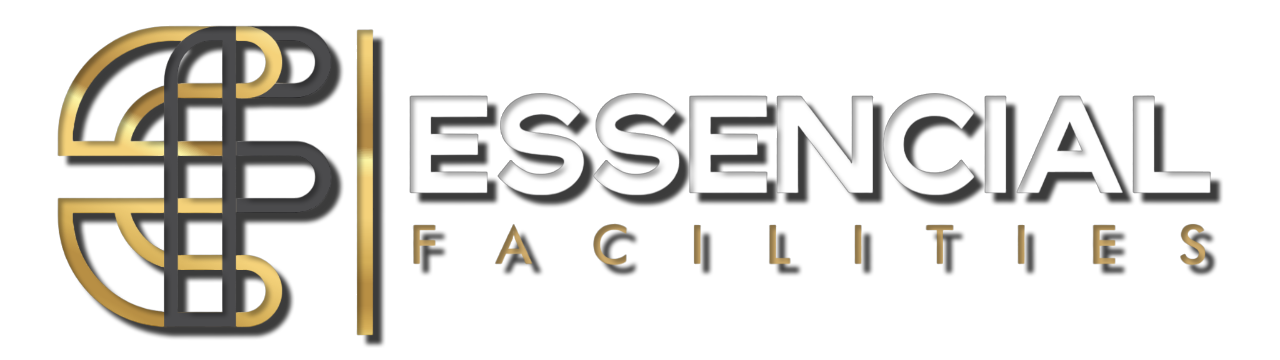
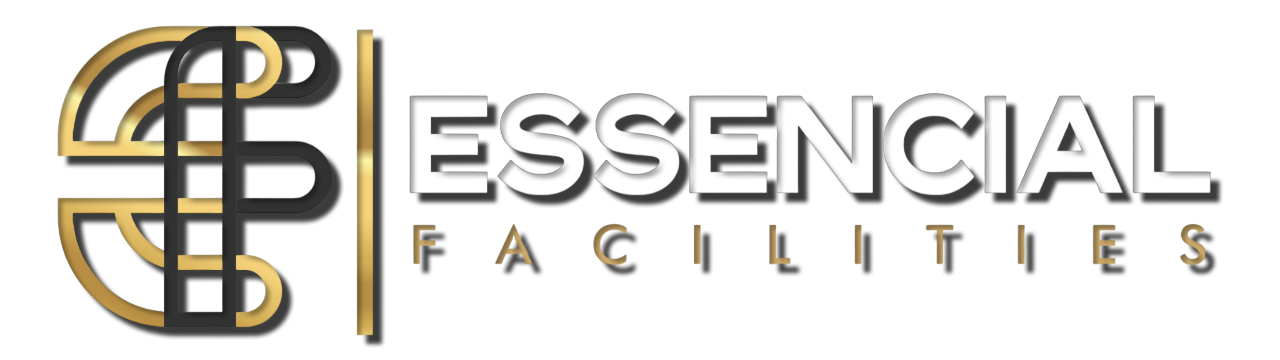
atualização site

Changed region(s): [[0.125, 0.0917, 0.2812, 0.9167]]

diff --git a/contact.html b/contact.html
@@ -3,7 +3,7 @@
 
 <head>
     <meta charset="utf-8">
-    <title>Essencial Facilities - Cleaning Services Website Template</title>
+    <title>Essencial Facilities - Contato</title>
     <meta content="width=device-width, initial-scale=1.0" name="viewport">
     <meta content="Free HTML Templates" name="keywords">
     <meta content="Free HTML Templates" name="description">
@@ -17,8 +17,7 @@
 
     <!-- Font Awesome -->
     <link href="https://cdnjs.cloudflare.com/ajax/libs/font-awesome/5.10.0/css/all.min.css" rel="stylesheet">
-
-    <!-- Libraries Stylesheet -->
+<!-- Libraries Stylesheet -->
     <link href="lib/owlcarousel/assets/owl.carousel.min.css" rel="stylesheet">
     <link href="lib/lightbox/css/lightbox.min.css" rel="stylesheet">
 
@@ -32,20 +31,21 @@
         <div class="row">
             <div class="col-lg-3 bg-secondary d-none d-lg-block">
                 <a href="" class="navbar-brand w-100 h-100 m-0 p-0 d-flex align-items-center justify-content-center">
-                    <h1 class="m-0 display-3 text-primary"><span class="m-0 display-3 text-primary"><img src="img/0001-Photoroom.png" alt="" width="350" height="97"></span> </h1>
+                <h1 class="m-0 display-3 text-primary"><span class="m-0 display-3 text-primary"><img src="img/0001-Photoroom.png" alt="" width="350" height="97"></span> </h1>
                 </a>
             </div>
-            <div class="col-lg-9">
+           <div class="col-lg-9">
                 <div class="row bg-dark d-none d-lg-flex">
                     <div class="col-lg-7 text-left text-white">
                         <div class="h-100 d-inline-flex align-items-center border-right border-primary py-2 px-3">
                             <i class="fa fa-envelope text-primary mr-2"></i>
-                            <small>info@example.com</small>
+                            <small>contato@essencialfacilities.com</small>
                         </div>
                         <div class="h-100 d-inline-flex align-items-center py-2 px-2">
                             <i class="fa fa-phone-alt text-primary mr-2"></i>
-                            <small>+012 345 6789</small>
-                        </div>
+                            <small><a href="https://wa.me/5565992451947" target="_blank">
+  Fale conosco pelo WhatsApp
++55 65 99245-1947</a></small></div>
                     </div>
                     <div class="col-lg-5 text-right">
                         <div class="d-inline-flex align-items-center pr-2">
@@ -76,20 +76,14 @@
                     </button>
                     <div class="collapse navbar-collapse justify-content-between" id="navbarCollapse">
                         <div class="navbar-nav mr-auto py-0">
-                            <a href="index.html" class="nav-item nav-link">Home</a>
-                            <a href="about.html" class="nav-item nav-link">About</a>
-                            <a href="service.html" class="nav-item nav-link">Service</a>
-                            <a href="project.html" class="nav-item nav-link">Project</a>
-                            <div class="nav-item dropdown">
-                                <a href="#" class="nav-link dropdown-toggle" data-toggle="dropdown">Pages</a>
-                                <div class="dropdown-menu rounded-0 m-0">
-                                    <a href="blog.html" class="dropdown-item">Latest Blog</a>
-                                    <a href="single.html" class="dropdown-item">Blog Detail</a>
-                                </div>
-                            </div>
-                            <a href="contact.html" class="nav-item nav-link active">Contact</a>
+                            <a href="index.html" class="nav-item nav-link active">Inicio</a>
+                            <a href="about.html" class="nav-item nav-link">Sobre Nós</a>
+                            <a href="service.html" class="nav-item nav-link">Serviço</a>
+                            <a href="project.html" class="nav-item nav-link">Projeto</a>
+                            <a href="contact.html" class="nav-item nav-link">Contato</a>
+                            </div> 
                         </div>
-                        <a href="" class="btn btn-primary mr-3 d-none d-lg-block">Get A Quote</a>
+                        <a href="" class="btn btn-primary mr-3 d-none d-lg-block">Obter uma Cotação</a>
                     </div>
                 </nav>
             </div>
@@ -103,7 +97,7 @@
         <div class="container py-5">
             <div class="row align-items-center py-4">
                 <div class="col-md-6 text-center text-md-left">
-                    <h1 class="display-4 mb-4 mb-md-0 text-secondary text-uppercase">Contact</h1>
+                    <h1 class="display-4 mb-4 mb-md-0 text-secondary text-uppercase">Contato</h1>
                 </div>
                 <div class="col-md-6 text-center text-md-right">
                     <div class="d-inline-flex align-items-center">
@@ -177,7 +171,8 @@
         <div class="row pt-5">
             <div class="col-lg-3 col-md-6 mb-5">
                 <a href="index.html" class="navbar-brand">
-                    <h1 class="m-0 mt-n3 display-4 text-primary">Essencial Facilities</h1>
+                    <span class="m-0 mt-n3 display-4 text-primary"><img src="img/logo dourada.fw.png" alt="" width="285" height="79"></span>
+                    <h1 class="m-0 mt-n3 display-4 text-primary">&nbsp;</h1>
                 </a>
                 <p>Volup amet magna clita tempor. Tempor sea eos vero ipsum. Lorem lorem sit sed elitr sed kasd et</p>
                 <h5 class="font-weight-semi-bold text-white mb-2">Opening Hours:</h5>

diff --git a/about.html b/about.html
@@ -3,7 +3,7 @@
 
 <head>
     <meta charset="utf-8">
-    <title>Essencial Facilities - Cleaning Services Website Template</title>
+    <title>Essencial Facilities - Conheça um pouco mais sobre nós</title>
     <meta content="width=device-width, initial-scale=1.0" name="viewport">
     <meta content="Free HTML Templates" name="keywords">
     <meta content="Free HTML Templates" name="description">
@@ -41,12 +41,13 @@
                     <div class="col-lg-7 text-left text-white">
                         <div class="h-100 d-inline-flex align-items-center border-right border-primary py-2 px-3">
                             <i class="fa fa-envelope text-primary mr-2"></i>
-                            <small>info@example.com</small>
+                            <small>contato@essencialfacilities.com</small>
                         </div>
                         <div class="h-100 d-inline-flex align-items-center py-2 px-2">
                             <i class="fa fa-phone-alt text-primary mr-2"></i>
-                            <small>+012 345 6789</small>
-                        </div>
+                            <small><a href="https://wa.me/5565992451947" target="_blank">
+  Fale conosco pelo WhatsApp
++55 65 99245-1947</a></small></div>
                     </div>
                     <div class="col-lg-5 text-right">
                         <div class="d-inline-flex align-items-center pr-2">
@@ -77,20 +78,14 @@
                     </button>
                     <div class="collapse navbar-collapse justify-content-between" id="navbarCollapse">
                         <div class="navbar-nav mr-auto py-0">
-                            <a href="index.html" class="nav-item nav-link">Home</a>
-                            <a href="about.html" class="nav-item nav-link active">About</a>
-                            <a href="service.html" class="nav-item nav-link">Service</a>
-                            <a href="project.html" class="nav-item nav-link">Project</a>
-                            <div class="nav-item dropdown">
-                                <a href="#" class="nav-link dropdown-toggle" data-toggle="dropdown">Pages</a>
-                                <div class="dropdown-menu rounded-0 m-0">
-                                    <a href="blog.html" class="dropdown-item">Latest Blog</a>
-                                    <a href="single.html" class="dropdown-item">Blog Detail</a>
-                                </div>
+                            <a href="index.html" class="nav-item nav-link active">Inicio</a>
+                            <a href="about.html" class="nav-item nav-link">Sobre Nós</a>
+                            <a href="service.html" class="nav-item nav-link">Serviço</a>
+                            <a href="project.html" class="nav-item nav-link">Projeto</a>
+                            <a href="contact.html" class="nav-item nav-link">Contato</a>
                             </div>
-                            <a href="contact.html" class="nav-item nav-link">Contact</a>
                         </div>
-                        <a href="" class="btn btn-primary mr-3 d-none d-lg-block">Get A Quote</a>
+                        <a href="" class="btn btn-primary mr-3 d-none d-lg-block">Obter uma Cotação</a>
                     </div>
                 </nav>
             </div>
@@ -104,7 +99,7 @@
         <div class="container py-5">
             <div class="row align-items-center py-4">
                 <div class="col-md-6 text-center text-md-left">
-                    <h1 class="display-4 mb-4 mb-md-0 text-secondary text-uppercase">About</h1>
+                    <h1 class="display-4 mb-4 mb-md-0 text-secondary text-uppercase">Sobre</h1>
                 </div>
                 <div class="col-md-6 text-center text-md-right">
                     <div class="d-inline-flex align-items-center">
@@ -293,11 +288,8 @@
     <!-- Footer Start -->
     <div class="container-fluid bg-dark text-white mt-5 py-5 px-sm-3 px-md-5">
         <div class="row pt-5">
-            <div class="col-lg-3 col-md-6 mb-5">
-                <a href="index.html" class="navbar-brand">
-                    <h1 class="m-0 mt-n3 display-4 text-primary">Essencial Facilities</h1>
-                </a>
-                <p>Volup amet magna clita tempor. Tempor sea eos vero ipsum. Lorem lorem sit sed elitr sed kasd et</p>
+            <div class="col-lg-3 col-md-6 mb-5"><a href="index.html" class="navbar-brand"><span class="m-0 mt-n3 display-4 text-primary"><img src="img/logo dourada.fw.png" alt="" width="285" height="79"></span></a>
+              <p>Volup amet magna clita tempor. Tempor sea eos vero ipsum. Lorem lorem sit sed elitr sed kasd et</p>
                 <h5 class="font-weight-semi-bold text-white mb-2">Opening Hours:</h5>
                 <p class="mb-1">Mon – Sat, 8AM – 5PM</p>
                 <p class="mb-0">Sunday: Closed</p>
@@ -306,7 +298,7 @@
                 <h4 class="font-weight-semi-bold text-primary mb-4">Get In Touch</h4>
                 <p><i class="fa fa-map-marker-alt text-primary mr-2"></i>123 Street, New York, USA</p>
                 <p><i class="fa fa-phone-alt text-primary mr-2"></i>+012 345 67890</p>
-                <p><i class="fa fa-envelope text-primary mr-2"></i>info@example.com</p>
+                <p><i class="fa fa-envelope text-primary mr-2"></i>contato@essencialfacilities.com.br</p>
                 <div class="d-flex justify-content-start mt-4">
                     <a class="btn btn-light btn-social mr-2" href="#"><i class="fab fa-twitter"></i></a>
                     <a class="btn btn-light btn-social mr-2" href="#"><i class="fab fa-facebook-f"></i></a>

diff --git a/service.html b/service.html
@@ -3,7 +3,7 @@
 
 <head>
     <meta charset="utf-8">
-    <title>Essencial Facilities - Cleaning Services Website Template</title>
+    <title>Essencial Facilities - Serviços </title>
     <meta content="width=device-width, initial-scale=1.0" name="viewport">
     <meta content="Free HTML Templates" name="keywords">
     <meta content="Free HTML Templates" name="description">
@@ -39,12 +39,13 @@
                     <div class="col-lg-7 text-left text-white">
                         <div class="h-100 d-inline-flex align-items-center border-right border-primary py-2 px-3">
                             <i class="fa fa-envelope text-primary mr-2"></i>
-                            <small>info@example.com</small>
+                            <small>contato@essencialfacilities.com</small>
                         </div>
                         <div class="h-100 d-inline-flex align-items-center py-2 px-2">
                             <i class="fa fa-phone-alt text-primary mr-2"></i>
-                            <small>+012 345 6789</small>
-                        </div>
+                            <small><a href="https://wa.me/5565992451947" target="_blank">
+  Fale conosco pelo WhatsApp
++55 65 99245-1947</a></small></div>
                     </div>
                     <div class="col-lg-5 text-right">
                         <div class="d-inline-flex align-items-center pr-2">
@@ -75,20 +76,14 @@
                     </button>
                     <div class="collapse navbar-collapse justify-content-between" id="navbarCollapse">
                         <div class="navbar-nav mr-auto py-0">
-                            <a href="index.html" class="nav-item nav-link">Home</a>
-                            <a href="about.html" class="nav-item nav-link">About</a>
-                            <a href="service.html" class="nav-item nav-link active">Service</a>
-                            <a href="project.html" class="nav-item nav-link">Project</a>
-                            <div class="nav-item dropdown">
-                                <a href="#" class="nav-link dropdown-toggle" data-toggle="dropdown">Pages</a>
-                                <div class="dropdown-menu rounded-0 m-0">
-                                    <a href="blog.html" class="dropdown-item">Latest Blog</a>
-                                    <a href="single.html" class="dropdown-item">Blog Detail</a>
-                                </div>
+                            <a href="index.html" class="nav-item nav-link active">Inicio</a>
+                            <a href="about.html" class="nav-item nav-link">Sobre Nós</a>
+                            <a href="service.html" class="nav-item nav-link">Serviço</a>
+                            <a href="project.html" class="nav-item nav-link">Projeto</a>
+                            <a href="contact.html" class="nav-item nav-link">Contato</a>
                             </div>
-                            <a href="contact.html" class="nav-item nav-link">Contact</a>
                         </div>
-                        <a href="" class="btn btn-primary mr-3 d-none d-lg-block">Get A Quote</a>
+                        <a href="" class="btn btn-primary mr-3 d-none d-lg-block">Obter uma Cotação</a>
                     </div>
                 </nav>
             </div>
@@ -102,7 +97,7 @@
         <div class="container py-5">
             <div class="row align-items-center py-4">
                 <div class="col-md-6 text-center text-md-left">
-                    <h1 class="display-4 mb-4 mb-md-0 text-secondary text-uppercase">Service</h1>
+                    <h1 class="display-4 mb-4 mb-md-0 text-secondary text-uppercase">Serviços</h1>
                 </div>
                 <div class="col-md-6 text-center text-md-right">
                     <div class="d-inline-flex align-items-center">
@@ -247,11 +242,8 @@
     <!-- Footer Start -->
     <div class="container-fluid bg-dark text-white mt-5 py-5 px-sm-3 px-md-5">
         <div class="row pt-5">
-            <div class="col-lg-3 col-md-6 mb-5">
-                <a href="index.html" class="navbar-brand">
-                    <h1 class="m-0 mt-n3 display-4 text-primary">Essencial Facilities</h1>
-                </a>
-                <p>Volup amet magna clita tempor. Tempor sea eos vero ipsum. Lorem lorem sit sed elitr sed kasd et</p>
+            <div class="col-lg-3 col-md-6 mb-5"><a href="index.html" class="navbar-brand"><span class="m-0 mt-n3 display-4 text-primary"><img src="img/logo dourada.fw.png" alt="" width="285" height="79"></span></a>
+              <p>Volup amet magna clita tempor. Tempor sea eos vero ipsum. Lorem lorem sit sed elitr sed kasd et</p>
                 <h5 class="font-weight-semi-bold text-white mb-2">Opening Hours:</h5>
                 <p class="mb-1">Mon – Sat, 8AM – 5PM</p>
                 <p class="mb-0">Sunday: Closed</p>

diff --git a/index.html b/index.html
@@ -3,13 +3,14 @@
 
 <head>
     <meta charset="utf-8">
-    <title>Essencial Facilities | Bem-vindo</title>
+    <title>Essencial Facilities - Bem-vindo</title>
     <meta content="width=device-width, initial-scale=1.0" name="viewport">
     <meta content="Free HTML Templates" name="keywords">
     <meta content="Free HTML Templates" name="description">
 
     <!-- Favicon -->
-    <link href="img/favicon.ico" rel="icon">
+    <link rel="apple-touch-icon" href="ICON.png">
+
 
     <!-- Google Web Fonts -->
     <link rel="preconnect" href="https://fonts.gstatic.com">
@@ -32,7 +33,7 @@
         <div class="row">
             <div class="col-lg-3 bg-secondary d-none d-lg-block">
                 <a href="" class="navbar-brand w-100 h-100 m-0 p-0 d-flex align-items-center justify-content-center">
-                    <h1 class="m-0 display-3 text-primary"><img src="img/0001-Photoroom.png" width="299" height="83"><br>
+                    <h1 class="m-0 display-3 text-primary"><img src="img/0001-Photoroom.png" width="350" height="97"><br>
                 </h1>
                 </a>
             </div>
@@ -78,20 +79,14 @@
                     </button>
                     <div class="collapse navbar-collapse justify-content-between" id="navbarCollapse">
                         <div class="navbar-nav mr-auto py-0">
-                            <a href="index.html" class="nav-item nav-link active">Home</a>
-                            <a href="about.html" class="nav-item nav-link">About</a>
-                            <a href="service.html" class="nav-item nav-link">Service</a>
-                            <a href="project.html" class="nav-item nav-link">Project</a>
-                            <div class="nav-item dropdown">
-                                <a href="#" class="nav-link dropdown-toggle" data-toggle="dropdown">Pages</a>
-                                <div class="dropdown-menu rounded-0 m-0">
-                                    <a href="blog.html" class="dropdown-item">Latest Blog</a>
-                                    <a href="single.html" class="dropdown-item">Blog Detail</a>
-                                </div>
-                            </div>
-                            <a href="contact.html" class="nav-item nav-link">Contact</a>
+                            <a href="index.html" class="nav-item nav-link active">Inicio</a>
+                            <a href="about.html" class="nav-item nav-link">Sobre Nós</a>
+                            <a href="service.html" class="nav-item nav-link">Serviço</a>
+                            <a href="project.html" class="nav-item nav-link">Projeto</a>
+                            <a href="contact.html" class="nav-item nav-link">Contato</a>
+                            </div>  
                         </div>
-                        <a href="" class="btn btn-primary mr-3 d-none d-lg-block">Get A Quote</a>
+                        <a href="" class="btn btn-primary mr-3 d-none d-lg-block">Obter uma Cotação</a>
                     </div>
                 </nav>
             </div>
@@ -635,8 +630,8 @@
     <!-- Footer Start -->
     <div class="container-fluid bg-dark text-white mt-5 py-5 px-sm-3 px-md-5">
         <div class="row pt-5">
-            <div class="col-lg-3 col-md-6 mb-5"><a href="index.html" class="navbar-brand"><span class="m-0 mt-n3 display-4 text-primary"><img src="img/logo dourada.fw.png" width="225" height="65"></span></a>
-                <p>Volup amet magna clita tempor. Tempor sea eos vero ipsum. Lorem lorem sit sed elitr sed kasd et</p>
+            <div class="col-lg-3 col-md-6 mb-5"><a href="index.html" class="navbar-brand"><span class="m-0 mt-n3 display-4 text-primary"><img src="img/logo dourada.fw.png" width="285" height="79"></span></a>
+              <p>Volup amet magna clita tempor. Tempor sea eos vero ipsum. Lorem lorem sit sed elitr sed kasd et</p>
                 <h5 class="font-weight-semi-bold text-white mb-2">Opening Hours:</h5>
                 <p class="mb-1">Mon – Sat, 8AM – 5PM</p>
                 <p class="mb-0">Sunday: Closed</p>

diff --git a/project.html b/project.html
@@ -77,20 +77,13 @@
                     </button>
                     <div class="collapse navbar-collapse justify-content-between" id="navbarCollapse">
                         <div class="navbar-nav mr-auto py-0">
-                            <a href="index.html" class="nav-item nav-link">Home</a>
-                            <a href="about.html" class="nav-item nav-link">About</a>
-                            <a href="service.html" class="nav-item nav-link">Service</a>
-                            <a href="project.html" class="nav-item nav-link active">Project</a>
-                            <div class="nav-item dropdown">
-                                <a href="#" class="nav-link dropdown-toggle" data-toggle="dropdown">Pages</a>
-                                <div class="dropdown-menu rounded-0 m-0">
-                                    <a href="blog.html" class="dropdown-item">Latest Blog</a>
-                                    <a href="single.html" class="dropdown-item">Blog Detail</a>
-                                </div>
-                            </div>
-                            <a href="contact.html" class="nav-item nav-link">Contact</a>
-                        </div>
-                        <a href="" class="btn btn-primary mr-3 d-none d-lg-block">Get A Quote</a>
+                            <a href="index.html" class="nav-item nav-link active">Inicio</a>
+                            <a href="about.html" class="nav-item nav-link">Sobre Nós</a>
+                            <a href="service.html" class="nav-item nav-link">Serviço</a>
+                            <a href="project.html" class="nav-item nav-link">Projeto</a>
+                            <a href="contact.html" class="nav-item nav-link">Contato</a>
+                            </div> 
+                        <a href="" class="btn btn-primary mr-3 d-none d-lg-block">Obter uma Cotação</a>
                     </div>
                 </nav>
             </div>
@@ -104,7 +97,7 @@
         <div class="container py-5">
             <div class="row align-items-center py-4">
                 <div class="col-md-6 text-center text-md-left">
-                    <h1 class="display-4 mb-4 mb-md-0 text-secondary text-uppercase">Project</h1>
+                    <h1 class="display-4 mb-4 mb-md-0 text-secondary text-uppercase">Projeto</h1>
                 </div>
                 <div class="col-md-6 text-center text-md-right">
                     <div class="d-inline-flex align-items-center">
@@ -257,7 +250,8 @@
         <div class="row pt-5">
             <div class="col-lg-3 col-md-6 mb-5">
                 <a href="index.html" class="navbar-brand">
-                    <h1 class="m-0 mt-n3 display-4 text-primary">Essencial Facilities</h1>
+                    <span class="m-0 mt-n3 display-4 text-primary"><img src="img/logo dourada.fw.png" alt="" width="285" height="79"></span>
+                    <h1 class="m-0 mt-n3 display-4 text-primary">&nbsp;</h1>
                 </a>
                 <p>Volup amet magna clita tempor. Tempor sea eos vero ipsum. Lorem lorem sit sed elitr sed kasd et</p>
                 <h5 class="font-weight-semi-bold text-white mb-2">Opening Hours:</h5>

diff --git a/blog.html b/blog.html
@@ -75,18 +75,12 @@
                     </button>
                     <div class="collapse navbar-collapse justify-content-between" id="navbarCollapse">
                         <div class="navbar-nav mr-auto py-0">
-                            <a href="index.html" class="nav-item nav-link">Home</a>
-                            <a href="about.html" class="nav-item nav-link">About</a>
-                            <a href="service.html" class="nav-item nav-link">Service</a>
-                            <a href="project.html" class="nav-item nav-link">Project</a>
-                            <div class="nav-item dropdown">
-                                <a href="#" class="nav-link dropdown-toggle active" data-toggle="dropdown">Pages</a>
-                                <div class="dropdown-menu rounded-0 m-0">
-                                    <a href="blog.html" class="dropdown-item active">Latest Blog</a>
-                                    <a href="single.html" class="dropdown-item">Blog Detail</a>
-                                </div>
+                            <a href="index.html" class="nav-item nav-link active">Inicio</a>
+                            <a href="about.html" class="nav-item nav-link">Sobre Nós</a>
+                            <a href="service.html" class="nav-item nav-link">Serviço</a>
+                            <a href="project.html" class="nav-item nav-link">Projeto</a>
+                            <a href="contact.html" class="nav-item nav-link">Contato</a>
                             </div>
-                            <a href="contact.html" class="nav-item nav-link">Contact</a>
                         </div>
                         <a href="" class="btn btn-primary mr-3 d-none d-lg-block">Get A Quote</a>
                     </div>
